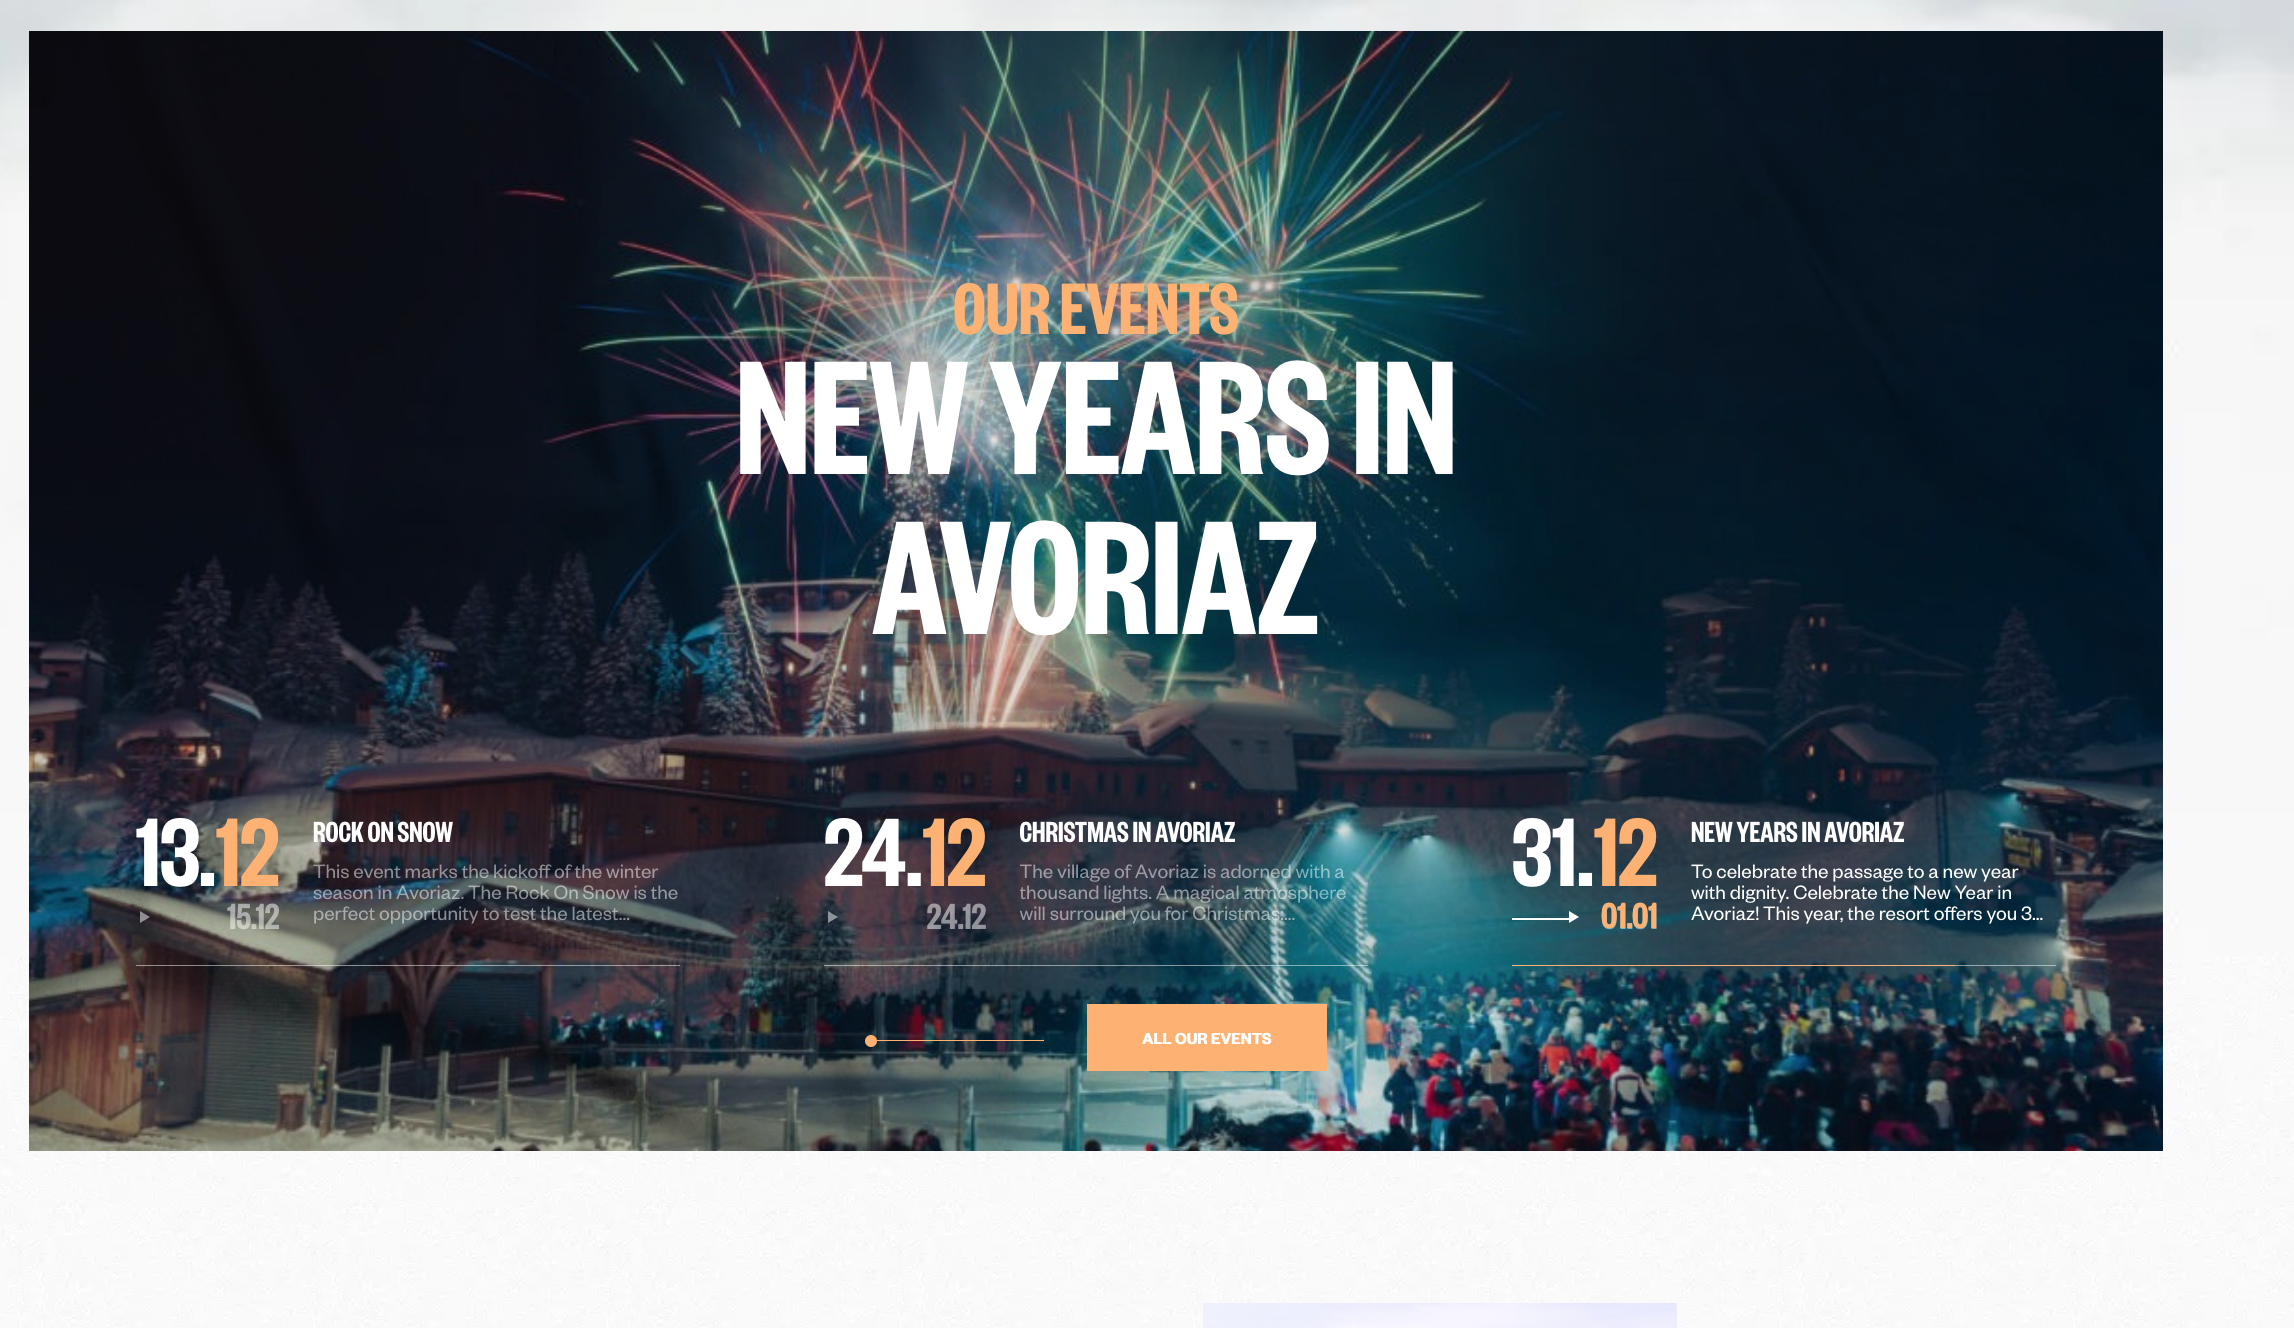
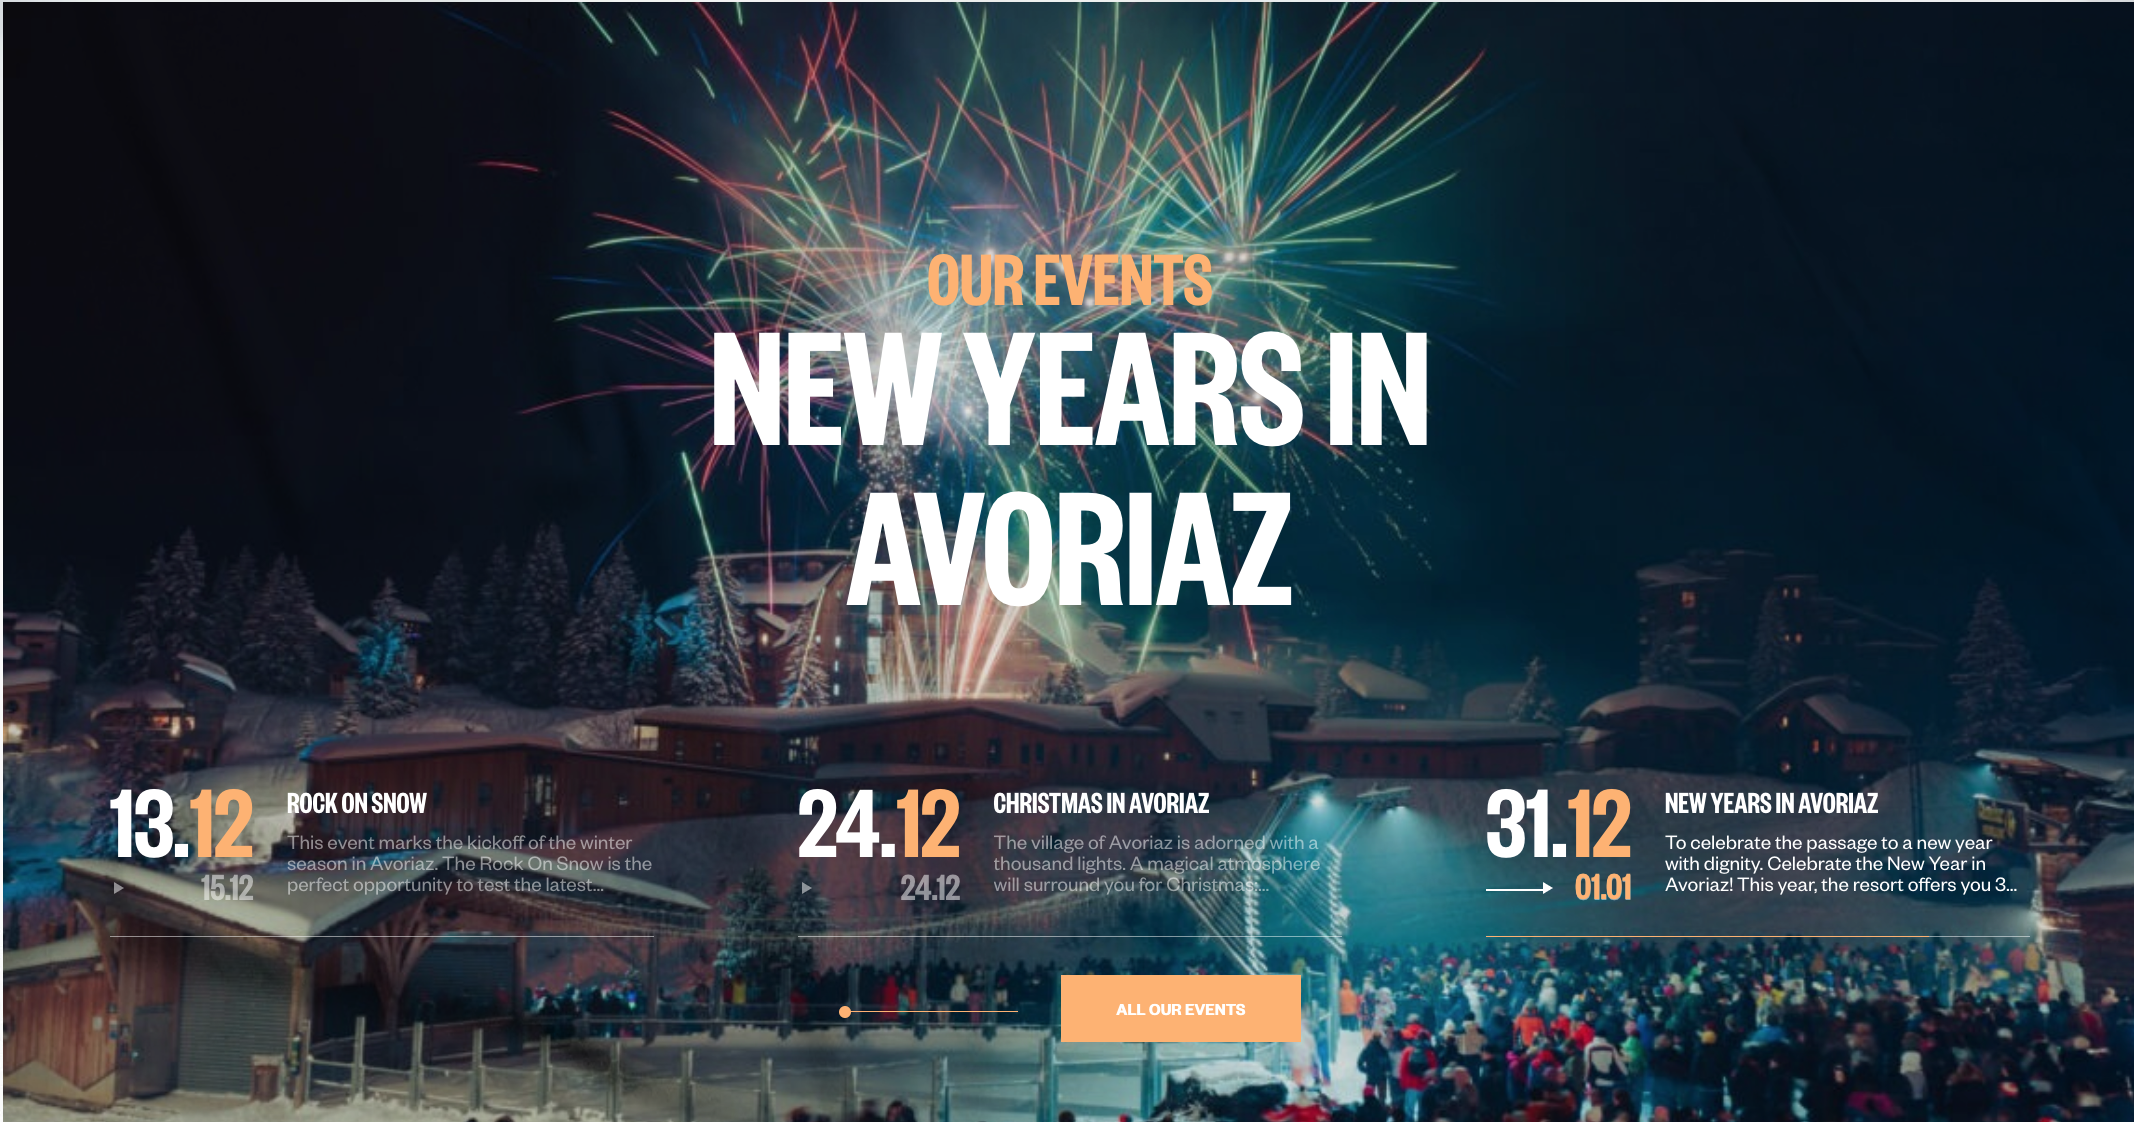
Event Page
Created the Event page

diff --git a/css/main.css b/css/main.css
@@ -1516,7 +1516,175 @@ a.icon-btn_home:active {
     width: 900px;
 }
 
-/*-------------feature 7-----------*/
+/*-------------feature EVENTS CALENDAR7-----------*/
+
+.event_backimg {
+    width: 900px;
+    position: relative;
+}
+
+.events__subhead {
+    font-size: 25px;
+    color: #fdb273;
+    position: absolute;
+    top: 545px;
+    left: 360px;
+}
+
+.events__headline {
+    font-size: 50px;
+    color: white;
+    text-align: center;
+    line-height: 50px;
+    position: absolute;
+    top: 560px;
+    left: 280px;
+}
+
+.event__lgdatel-1 {
+    font-size: 36px;
+    color: white;
+    position: absolute;
+    top: 750px;
+    left: 50px;
+}
+
+.event__lgdater {
+    font-size: 36px;
+    color: #fdb273;
+    position: absolute;
+    top: 750px;
+    left: 95px;
+}
+
+.event__smdate1 {
+    font-size: 14px;
+    color: white;
+    opacity: .5;
+    position: absolute;
+    top: 805px;
+    left: 95px;
+}
+
+.event__title1 {
+    font-size: 10px;
+    font-weight: 600;
+    color: white;
+    position: absolute;
+    top: 780px;
+    left: 140px;
+}
+
+.event__copy1 {
+    font-size: 7px;
+    color: white;
+    opacity: .5;
+    position: absolute;
+    top: 800px;
+    left: 140px;
+}
+
+/*---2nd event--*/
+.event__lgdatel-2 {
+    font-size: 36px;
+    color: white;
+    position: absolute;
+    top: 750px;
+    left: 320px;
+}
+
+.event__lgdater2 {
+    font-size: 36px;
+    color: #fdb273;
+    position: absolute;
+    top: 750px;
+    left: 373px;
+}
+
+.event__smdate2 {
+    font-size: 14px;
+    color: white;
+    opacity: .5;
+    position: absolute;
+    top: 805px;
+    left: 370px;
+}
+
+.event__title2 {
+    font-size: 10px;
+    font-weight: 600;
+    color: white;
+    position: absolute;
+    top: 780px;
+    left: 420px;
+}
+
+.event__copy2 {
+    font-size: 7px;
+    color: white;
+    opacity: .5;
+    position: absolute;
+    top: 800px;
+    left: 420px;
+}
+
+/*---3rd event--*/
+.event__lgdatel-3 {
+    font-size: 36px;
+    color: white;
+    position: absolute;
+    top: 750px;
+    left: 590px;
+}
+
+.event__lgdater3 {
+    font-size: 36px;
+    color: #fdb273;
+    position: absolute;
+    top: 750px;
+    left: 634px;
+}
+
+.event__smdate3 {
+    font-size: 14px;
+    color: white;
+    opacity: .5;
+    position: absolute;
+    top: 805px;
+    left: 635px;
+}
+
+.event__title3 {
+    font-size: 10px;
+    font-weight: 600;
+    color: white;
+    position: absolute;
+    top: 780px;
+    left: 680px;
+}
+
+.event__copy3 {
+    font-size: 7px;
+    color: white;
+    opacity: .8;
+    position: absolute;
+    top: 800px;
+    left: 680px;
+}
+
+.event__orangebtn {
+    font-family: var(--font-sans-serif);
+    font-weight: bold;
+    border: none;
+    color: white;
+    background: #fdb273;
+    padding: 10px 20px;
+    font-size: 8px;
+    cursor: pointer;
+    position: absolute;
+    top: 883px;
+    left: 450px;
+}
 
 /*-------------feature SOCIAL MEDIA 8-----------*/
 

diff --git a/components/events.html b/components/events.html
@@ -20,6 +20,43 @@
 
 <body>
     <img class="event__srcimg" src="../components/avoriaz_screenshots/avoriaz__feature-event-calendar.png">
+
+    <img class="event_backimg" src="../images/feature_newyears.jpg" alt="new years celebration events calendar">
+    <h3 class="events__subhead">OUR EVENTS</h3>
+    <h1 class="events__headline">NEW YEARS IN <br> AVORIAZ</h1>
+
+    <div class="events__ev1-container">
+        <h3 class="event__lgdatel-1">13.</h3>
+        <h3 class="event__lgdater">12</h3>
+        <h4 class="event__smdate1">15.12</h4>
+        <p class="event__title1">ROCK ON SNOW</p>
+        <p class="event__copy1">This event marks the kickoff of the winter<br>season in Avoriaz. The Rock On Snow is
+            the<br> perfect
+            opportunity to test the latest...</p>
+    </div>
+
+    <div class="events__ev2-container">
+        <h3 class="event__lgdatel-2">24.</h3>
+        <h3 class="event__lgdater2">12</h3>
+        <h4 class="event__smdate2">24.12</h4>
+        <p class="event__title2">CHRISTMAS IN AVORIAZ</p>
+        <p class="event__copy2">The village of Avoriiaz is adorned with a<br> thousand lights. A magical atmosphere<br>
+            will surround you for
+            Christmas...</p>
+    </div>
+
+    <div class="events__ev3-container">
+        <h3 class="event__lgdatel-3">31.</h3>
+        <h3 class="event__lgdater3">12</h3>
+        <h4 class="event__smdate3">01.01</h4>
+        <p class="event__title3">NEW YEARS IN AVORIAZ</p>
+        <p class="event__copy3">To celebrate the passage to a new year<br> with dignity. Celebrate the New Year in <br>
+            Avoriaz! This year,
+            the resort offers you 3...</p>
+    </div>
+
+    <button class="event__orangebtn">
+        <a href="!#">ALL OUR EVENTS</a></button>
 </body>
 <footer>
 
